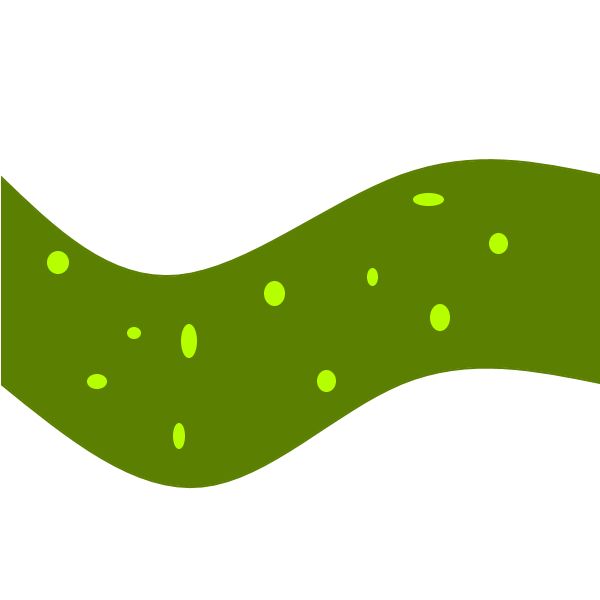
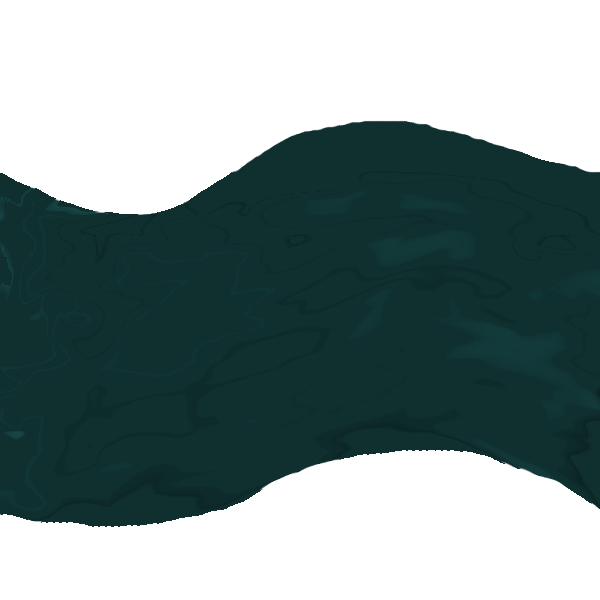
TRUMP 2020

diff --git a/src/Game3/Game3.java b/src/Game3/Game3.java
@@ -1,5 +1,6 @@
 package Game3;
 import java.awt.BorderLayout;
+import java.awt.Dimension;
 import java.awt.Font;
 import java.awt.Graphics;
 import java.awt.Image;
@@ -64,8 +65,8 @@ public class Game3 implements java.io.Serializable{
 	private JProgressBar timeBar;
 	private ArrayList<JLabel> coins;
 	private JLabel	totalCoin = null;
-	JMenuItem grass = new JMenuItem("Grass");
-	JMenuItem mangrove = new JMenuItem("Mangrove");
+	JMenuItem grass = new JMenuItem(new ImageIcon("images/GrassIcon.png"));
+	JMenuItem mangrove = new JMenuItem(new ImageIcon("images/mangroveIcon.png"));
 	
 	
 	
@@ -155,7 +156,7 @@ public class Game3 implements java.io.Serializable{
 		
 		
 		gamePanel.add(Button);
-		timeAndScore = new JLabel("Time:"+(int)getTime()+"    Score:"+getScore() + "    Money:"+getMoney());
+		timeAndScore = new JLabel("Time:"+(int)getTime()+"    Score:"+getScore());
 		timeAndScore.setBounds(0,0,frame.getWidth(),30);
 		timeAndScore.setFont(new Font("Serif", Font.PLAIN, 30));
 		gamePanel.add(timeAndScore);
@@ -196,7 +197,7 @@ public class Game3 implements java.io.Serializable{
 			current.grow();
 		}
 		if (getTickCount() % 10 == 0) {
-			timeAndScore.setText("Time:"+(int)getTime()+"    Score:"+getScore() + "   Money:");
+			timeAndScore.setText("Time:"+(int)getTime()+"    Score:"+getScore());
 			
 			
 		}
@@ -275,8 +276,8 @@ public class Game3 implements java.io.Serializable{
 						mangrove.removeActionListener(this);
 					}
 					else {
-						if(getMoney()>=100){
-							addMoney(-100);
+						if(getMoney()>=200){
+							addMoney(-200);
 							addPlant(row,col,"Mangrove");
 							timer.start();}
 						else{ timer.start();}
@@ -284,8 +285,7 @@ public class Game3 implements java.io.Serializable{
 				}
 			});
 			
-		}
- 	}
+		}}
 	
 	/**
 	 * Adds a plant to the current game from a player choice in a menu screen
@@ -438,7 +438,6 @@ public class Game3 implements java.io.Serializable{
 			}
 		}
 		else if (coins.size() == 10){
-			System.out.println("poo");
 			if (coins.size() != 0) {
 				for (JLabel current : coins) {
 					gamePanel.remove(current);
@@ -459,7 +458,6 @@ public class Game3 implements java.io.Serializable{
 		}
 		else {
 			if (totalCoin == null) {
-				System.out.println("r");
 				ImageIcon imi = new ImageIcon("images/coin.png");
 				JLabel jl = new JLabel(imi);
 				coins.add(jl);
@@ -491,7 +489,7 @@ public class Game3 implements java.io.Serializable{
 	 */
 	public void addScore(int score) {
 		this.score += score;
-		timeAndScore.setText("Time:"+(int)getTime()+"    Score:"+getScore() + "    Money:");
+		timeAndScore.setText("Time:"+(int)getTime()+"    Score:"+getScore());
 	}
 	
 	/**

diff --git a/src/Game3/Tile.java b/src/Game3/Tile.java
@@ -24,7 +24,7 @@ public class Tile {
 		this.col = col;
 		this.image = null;
 		try {
-			this.image = ImageIO.read(new File("images/noPlant.png")).getScaledInstance(Game3.scalor, Game3.scalor, 1);
+			this.image = ImageIO.read(new File("images/sand.png")).getScaledInstance(Game3.scalor, Game3.scalor, 1);
 		} catch(IOException e) {
 			System.out.println("Read Error: " + e.getMessage());
 		}

diff --git a/src/Game3/Plant.java b/src/Game3/Plant.java
@@ -59,7 +59,7 @@ public class Plant extends Tile implements Serializable{
 			loadImage("Grass.png");
 		}
 		else {
-			loadImage("mangrove.jpg");
+			loadImage("mangrove.png");
 		}
 	}
 	
